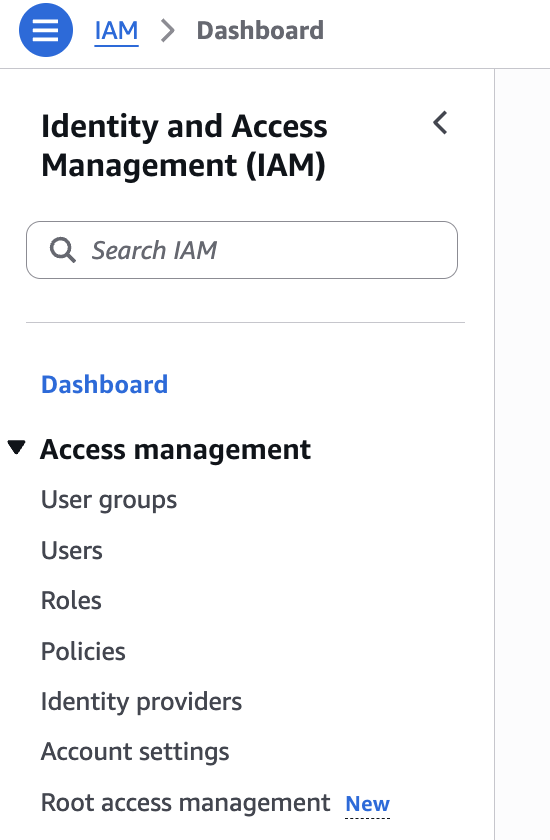
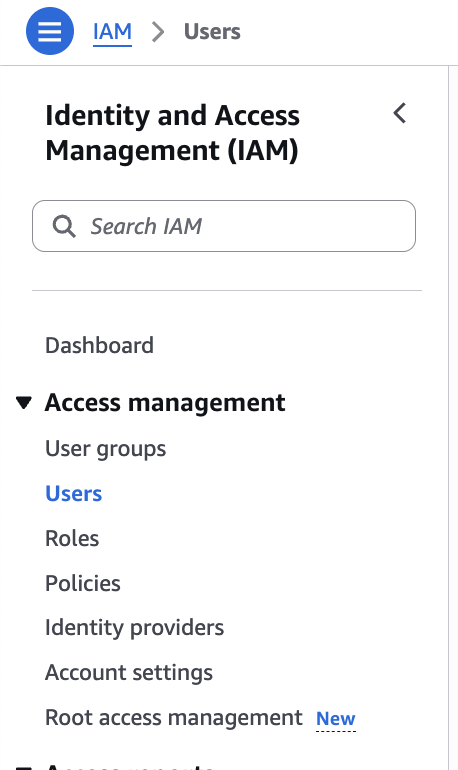
update images and text/formatting

diff --git a/docs/providers/aws/create-user.md b/docs/providers/aws/create-user.md
@@ -1,81 +1,62 @@
 ---
-title: Setting Up AWS users
-description: Follow these instructions to create a user for deployment
+title: Creating an AWS IAM User
+description: Step-by-step instructions for creating an IAM user and access keys for Defang deployments.
 sidebar_position: 100
 ---
 
-# Create a user
+## Creating an AWS IAM User for Defang
 
- Follow these steps to set up a AWS user for deploying applications with Defang.
+To deploy applications with Defang on AWS, you need an IAM user with appropriate permissions and access keys. This guide walks you through the process step by step.
 
-### Step 1: Create Your user
+## Step 1: Create an IAM User
 
-  1. Start by using the [AWS console](https://aws.amazon.com/console/) and go to the AIM (Amazon Identity and Management) console and under **Access Management** select **User**
+### a. Open the IAM Service
+Go to the [AWS Console](https://aws.amazon.com/console/) and open the IAM (Identity and Access Management) service. Under **Access Management**, select **Users**.
 
-<figure>
-  <img src="/img/aws-user/side-panel.png" alt="AWS AIM side panel" style={{ width: 300 }} />
-  <figcaption>Create a AWS user</figcaption>. 
-</figure>
-  
-  2. Select the Create User button on the top right to start the create flow
+<img src="/img/aws-user/side-panel.png" alt="AWS IAM side panel" width="250" />
 
-<figure>
-  <img src="/img/aws-user/create-user.png" alt="Create user button" style={{ width: 300 }} />
-  <figcaption>Create user button</figcaption>
-</figure>
+### b. Click Create User
+Click the **Create user** button at the top right.
 
-  3. Provide user name and permission policy
+<img src="/img/aws-user/create-user.png" alt="Create user button" width="470" />
 
-<figure>
-  <img src="/img/aws-user/create-user-1-name.png" alt="User name input" style={{ width: 300 }} />
-  <figcaption>User name input</figcaption>  
-</figure>
+### c. Enter User Name and Assign Permissions
+Enter a user name and assign permissions. For most Defang use cases, the `PowerUserAccess` policy is used in this example, but you may choose different or more restrictive policies depending on your organization's requirements.
 
-The policy we are add in this example is very permissive. You may wish to more selective of the policies you want your user to have.
-<figure>
-  <img src="/img/aws-user/create-user-2-add-policy.png" alt="Assign policies to user" style={{ width: 300 }} />
-  <figcaption>Assign policies to user</figcaption> 
-</figure>
+<img src="/img/aws-user/create-user-1-name.png" alt="User name input" width="470" />
 
-Once this is done, review and confirm the creation.
+<img src="/img/aws-user/create-user-2-add-policy.png" alt="Assign policies to user" width="470" />
+
+### d. Review and Confirm
+Review your settings and confirm the creation of the user.
 
 ---
 
-### Step 2: Creating keys
-  The next step is to create the action keys used to authenticate the user.
-  
-  1. Once the new user is create they will show up in the **Users** panel. Select that user.
+## Step 2: Create Access Keys
 
-   <figure>
-  <img src="/img/aws-user/new-user-in-panel.png" alt="New user in panel" style={{ width: 300 }} />
-  <figcaption>New user in panel</figcaption>  
-</figure>
+Access keys are required for programmatic access to AWS. Follow these steps to create them:
 
-  2. This opens the **User Summary** panel. Select **Create access key** button to open the key creation flow.
+### a. Select the New User
+After creating the user, locate them in the **Users** panel and select the user.
 
-   <figure>
-  <img src="/img/aws-user/new-user-create-key-panel.png" alt="Key creation panel" style={{ width: 300 }} />
-  <figcaption>Key creation panel</figcaption>  
+<img src="/img/aws-user/new-user-in-panel.png" alt="New user in panel" width="470" />
 
-</figure>
+### b. Create Access Key
+In the **User Summary** panel, click **Create access key**.
 
-  3. Select the Use case for the key, for defang this will be the "Application running on AWS compute service"
+<img src="/img/aws-user/new-user-create-key-panel.png" alt="Key creation panel" width="470" />
 
-   <figure>
-  <img src="/img/aws-user/new-user-use-case.png" alt="Use case" style={{ width: 300 }} />
-  <figcaption>Use case</figcaption>  
-</figure>
+### c. Select Use Case
+For Defang, select the use case "Application running on AWS compute service".
 
-  4. Provide a description of the key and press Next
+<img src="/img/aws-user/new-user-use-case.png" alt="Use case" width="470" />
 
-   <figure>
-  <img src="/img/aws-user/new-user-description.png" alt="Key description" style={{ width: 300 }} />
-  <figcaption>Key description</figcaption>  
-</figure>  
+### d. Add Description and Continue
+Optionally, provide a description for the key and click **Next**.
 
-  5. A new key is generated for you. This is the Access Key Id and Secret Key for this user for authentication during deployment.
+<img src="/img/aws-user/new-user-description.png" alt="Key description" width="470" />
 
-  <figure>
-  <img src="/img/aws-user/new-user-keys.png" alt="Access keys" style={{ width: 300 }} />
-  <figcaption>**Access keys**</figcaption>  
-</figure>
+### e. Save Your Access Keys
+Your new access key will be generated. **Copy and save the Access Key ID and Secret Access Key**—you will need these for Defang deployments.
+
+<img src="/img/aws-user/new-user-keys.png" alt="Access keys" width="470" />
